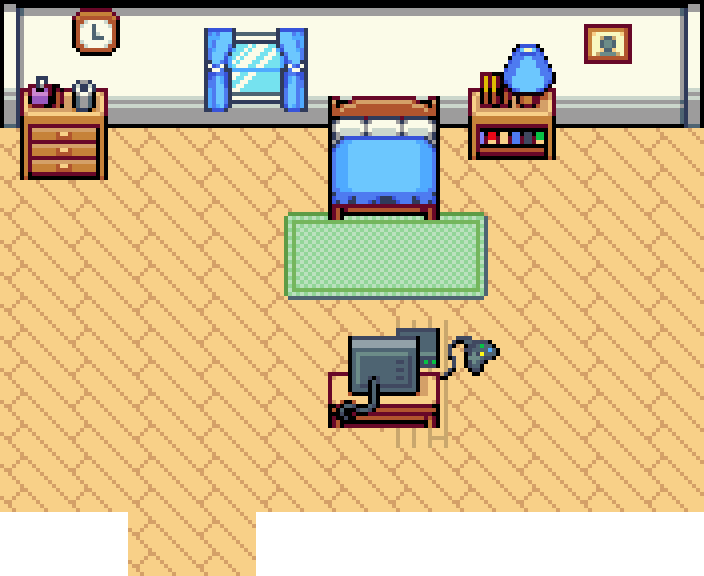
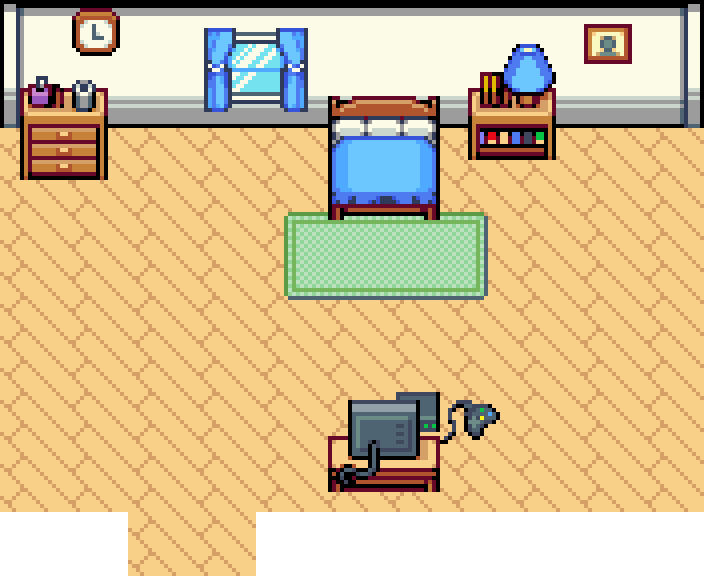
Add sleeping animation on intro scene

Changed region(s): [[0.4688, 0.5312, 0.7188, 0.875]]

diff --git a/src/scenes/preloaderScene.js b/src/scenes/preloaderScene.js
@@ -6,6 +6,7 @@ import title from '../assets/title.png';
 import button1 from '../assets/ui/buttonDefault.png';
 import button2 from '../assets/ui/buttonHover.png';
 import phaserLogo from '../assets/logo.png';
+import introSleeping from '../assets/sleepingSpriteAnim.png';
 import soundOff from '../assets/ui/soundOff.png';
 import soundOn from '../assets/ui/soundOn.png';
 import townMusic from '../assets/TownTheme.mp3';
@@ -102,6 +103,10 @@ export default class PreloaderScene extends Phaser.Scene {
     this.load.image('soundMenu', soundMenu);
     this.load.image('gameTitle', title);
     this.load.image('introBG', introBG);
+    this.load.spritesheet('introSleeping', introSleeping, {
+      frameWidth: 152,
+      frameHeight: 232,
+    });
   }
 
   ready() {

diff --git a/src/scenes/introScene.js b/src/scenes/introScene.js
@@ -7,9 +7,21 @@ export default class IntroScene extends Phaser.Scene {
     super('Intro');
   }
 
+
   create() {
     const xPos = config.width / 2;
     const yPos = config.height / 2;
     this.add.image(xPos, yPos, 'introBG');
+    this.introSleepSprite = this.add.sprite(xPos + 33, yPos - 163, 'introSleeping');
+
+    this.anims.create({
+      key: 'introSleepingAnim',
+      frames: this.anims.generateFrameNumbers('introSleeping'),
+      frameRate: 10,
+      repeat: 20,
+      hideOnComplete: true,
+    });
+
+    this.introSleepSprite.play('introSleepingAnim');
   }
 }
